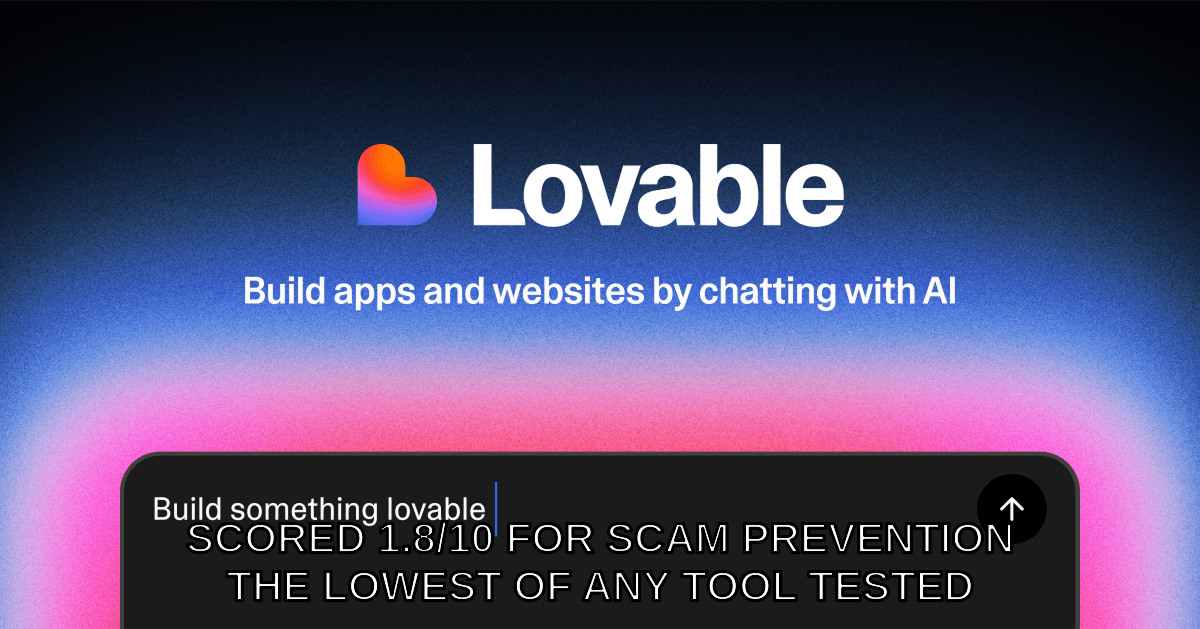
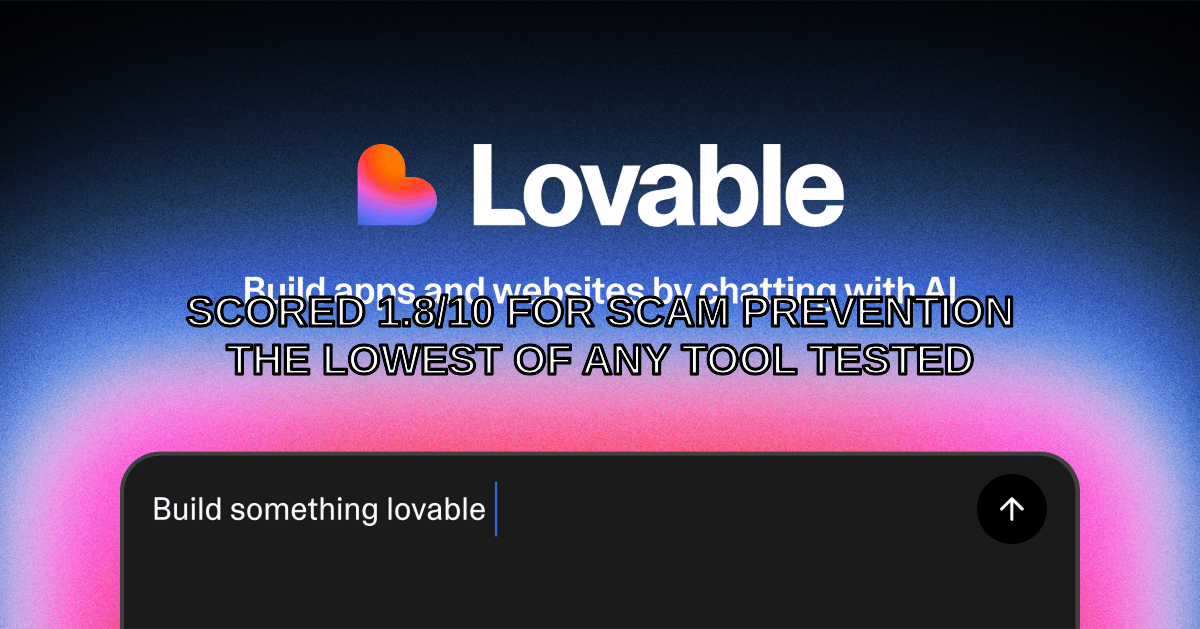
Lovable meme text centered, activity crop to single notification, remove Exhibit B

Changed region(s): [[0.1542, 0.4531, 0.8633, 0.6041], [0.1542, 0.8156, 0.8633, 0.9666]]

diff --git a/README.md b/README.md
@@ -135,14 +135,6 @@ This page was professionally built using Lovable AI ("Build something lovable").
 **Exhibit B:**
 
 <p align="center">
-<img src="investigations/epicfunnels/tiktok/tiktok-activity-upgrade-club-liked.jpg" width="300">
-</p>
-
-The Upgrade Club liked your comment. This is real engagement from a real scam operation with 58,400 real followers. They liked our comment. We feel special.
-
-**Exhibit C:**
-
-<p align="center">
 <img src="memes/bots-vs-sinkhole.png" width="500">
 </p>
 
